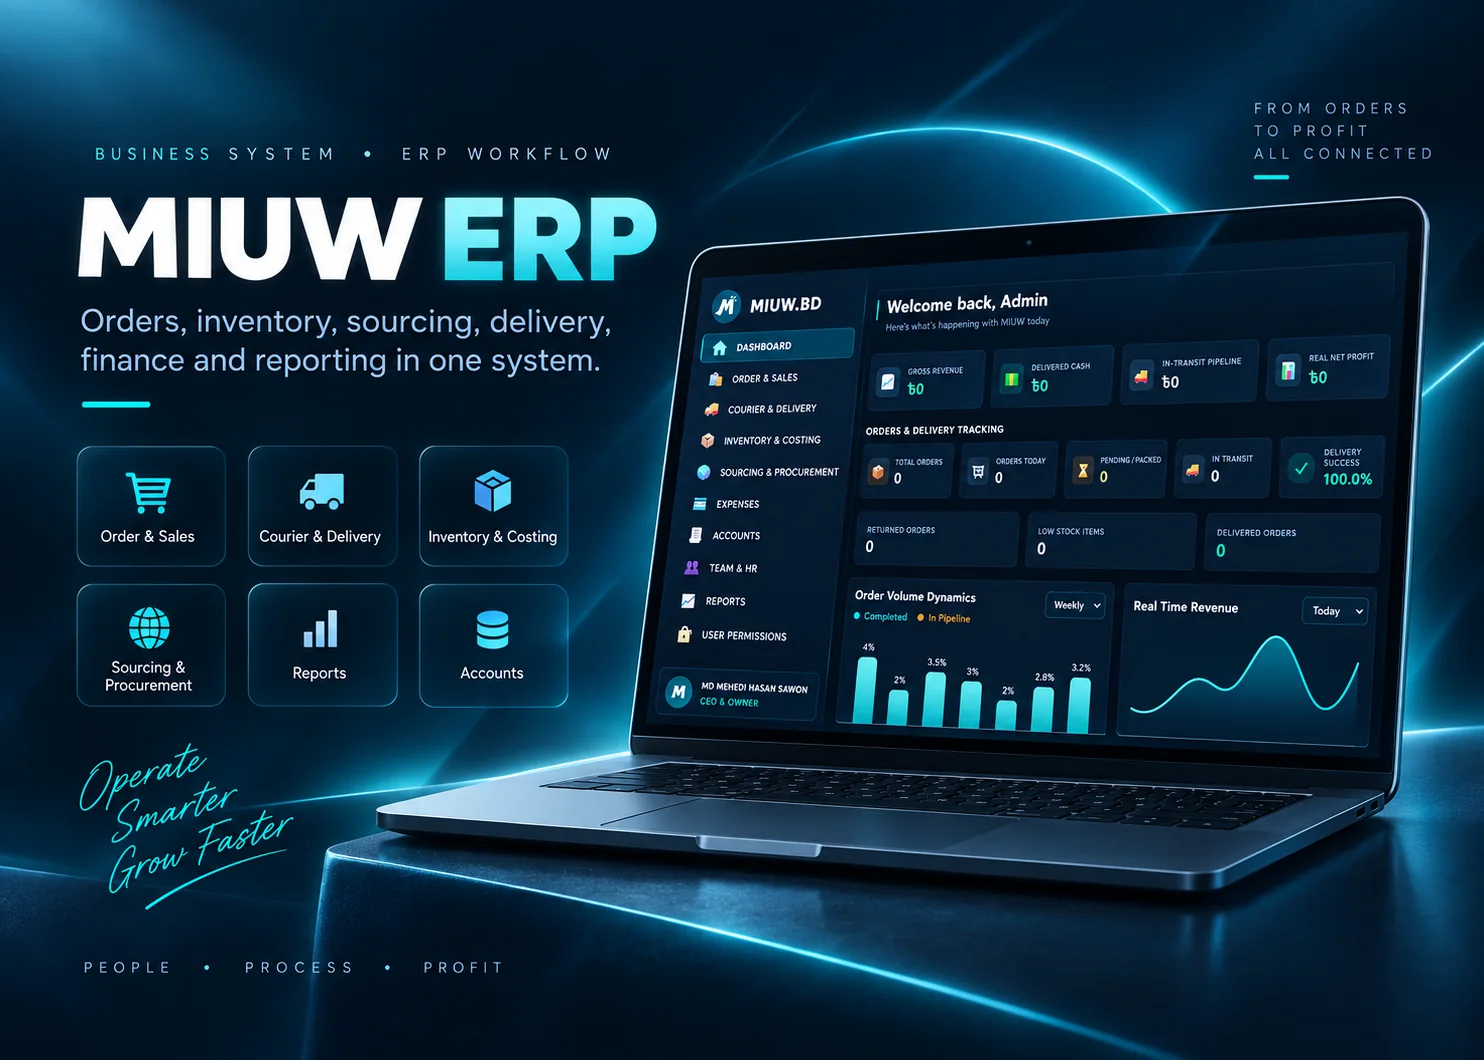
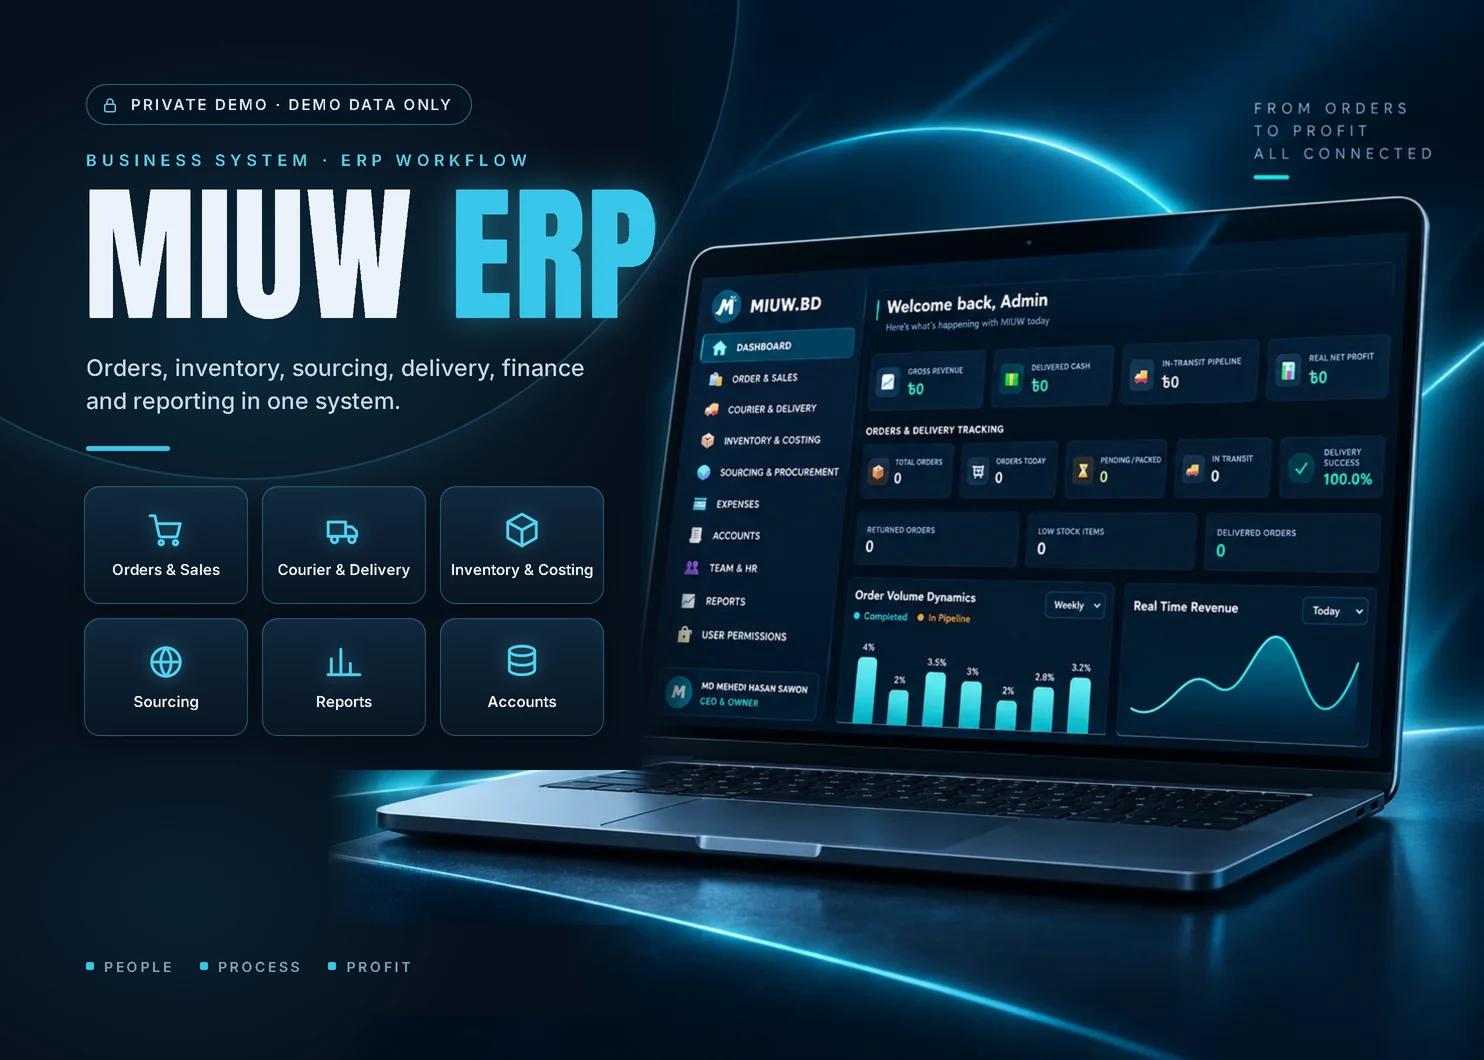
Redesign the MIUW ERP and Portfolio covers
- Portfolio: new cover built from real screenshots of the live site,
  with the desktop hero in a browser window and the mobile view on a
  phone. It has the Mhs. logo, a PORTFOLIO / WEBSITE title, a LIVE
  badge with the URL and the site's dark green. The old cover showed
  the previous site design.
- MIUW ERP: keeps the dashboard laptop render and replaces the soft
  text side with a crisp Anton title, six module tiles with clean
  icons and a "Private demo · demo data only" badge.
- Both 01 features now use the side-by-side layout with tags. The
  portfolio one shows the real hero screen, and the MIUW one shows the
  dashboard laptop on its own.
- 1200×630 JPG share images for both pages. Cover URLs carry ?v=2.

diff --git a/portfolio.html b/portfolio.html
@@ -15,11 +15,13 @@
   <meta property="og:title" content="Portfolio Website Case Study | MD Mehedi Hasan Sawon">
   <meta property="og:description" content="Personal brand, selected work and case studies in one responsive site.">
   <meta property="og:url" content="https://xehedihasansawon.github.io/portfolio.html">
-  <meta property="og:image" content="https://xehedihasansawon.github.io/assets/work/portfolio-cover.webp">
+  <meta property="og:image" content="https://xehedihasansawon.github.io/assets/work/portfolio-og.jpg">
+  <meta property="og:image:width" content="1200">
+  <meta property="og:image:height" content="630">
   <meta name="twitter:card" content="summary_large_image">
   <meta name="twitter:title" content="Portfolio Website Case Study | MD Mehedi Hasan Sawon">
   <meta name="twitter:description" content="Personal brand, selected work and case studies in one responsive site.">
-  <meta name="twitter:image" content="https://xehedihasansawon.github.io/assets/work/portfolio-cover.webp">
+  <meta name="twitter:image" content="https://xehedihasansawon.github.io/assets/work/portfolio-og.jpg">
   <link rel="preconnect" href="https://fonts.googleapis.com">
   <link rel="preconnect" href="https://fonts.gstatic.com" crossorigin>
   <link href="https://fonts.googleapis.com/css2?family=Anton&family=Caveat:wght@600&family=Inter:wght@400;500;600;700;800&display=swap" rel="stylesheet">
@@ -92,7 +94,7 @@
           <p class="case-lead">A responsive personal portfolio that brings my visual design, real-world projects, case studies and digital work together in one consistent experience.</p>
           <div class="case-tags"><span>Personal Brand</span><span>UI Design</span><span>Front-End</span><span>Responsive</span></div>
         </div>
-        <div class="case-hero-visual"><img src="assets/work/portfolio-cover.webp" width="1484" height="1060" alt="Portfolio website hero section on a laptop" fetchpriority="high" decoding="async"></div>
+        <div class="case-hero-visual"><img src="assets/work/portfolio-cover.webp?v=2" width="1484" height="1060" alt="Portfolio website cover with the live site on a browser window and a phone" fetchpriority="high" decoding="async"></div>
       </div>
     </section>
 
@@ -112,13 +114,15 @@
 
     <section class="case-section">
       <div class="shell">
-        <article class="format-feature format-wide">
-          <div class="format-copy wide-copy">
+        <article class="format-feature format-portrait format-landscape">
+          <div class="format-copy">
             <span class="format-number">01</span>
-            <div><p class="case-eyebrow">Selected Screen</p><h2>The hero <span>section.</span></h2></div>
-            <p>Name, role and two clear actions up front: view selected work, or start a project conversation.</p>
+            <p class="case-eyebrow">Selected Screen</p>
+            <h2>The hero <span>section.</span></h2>
+            <p>Name, role and two clear actions up front: view selected work, or start a project conversation. This is the live site as it is today.</p>
+            <div class="format-meta"><span>UI Design</span><span>Responsive</span></div>
           </div>
-          <button type="button" class="case-image-button wide-art" data-lightbox="assets/work/portfolio-cover.webp"><img src="assets/work/portfolio-cover.webp" width="1484" height="1060" alt="Portfolio website hero section" loading="lazy" decoding="async"></button>
+          <button type="button" class="case-image-button wide-art" data-lightbox="assets/work/portfolio-hero-screen.webp" data-caption="The hero section · Live site"><img src="assets/work/portfolio-hero-screen-sm.webp" width="1200" height="750" alt="Live portfolio homepage hero with the Mhs. logo, name and photo" loading="lazy" decoding="async"></button>
         </article>
       </div>
     </section>

diff --git a/miuw-erp.html b/miuw-erp.html
@@ -15,11 +15,13 @@
   <meta property="og:title" content="MIUW ERP Case Study | MD Mehedi Hasan Sawon">
   <meta property="og:description" content="Orders, inventory, sourcing, delivery, finance and reporting in one business system.">
   <meta property="og:url" content="https://xehedihasansawon.github.io/miuw-erp.html">
-  <meta property="og:image" content="https://xehedihasansawon.github.io/assets/work/miuw-erp-cover.webp">
+  <meta property="og:image" content="https://xehedihasansawon.github.io/assets/work/miuw-og.jpg">
+  <meta property="og:image:width" content="1200">
+  <meta property="og:image:height" content="630">
   <meta name="twitter:card" content="summary_large_image">
   <meta name="twitter:title" content="MIUW ERP Case Study | MD Mehedi Hasan Sawon">
   <meta name="twitter:description" content="Orders, inventory, sourcing, delivery, finance and reporting in one business system.">
-  <meta name="twitter:image" content="https://xehedihasansawon.github.io/assets/work/miuw-erp-cover.webp">
+  <meta name="twitter:image" content="https://xehedihasansawon.github.io/assets/work/miuw-og.jpg">
   <link rel="preconnect" href="https://fonts.googleapis.com">
   <link rel="preconnect" href="https://fonts.gstatic.com" crossorigin>
   <link href="https://fonts.googleapis.com/css2?family=Anton&family=Caveat:wght@600&family=Inter:wght@400;500;600;700;800&display=swap" rel="stylesheet">
@@ -92,7 +94,7 @@
           <p class="case-lead">A business system that keeps sourcing, inventory, orders, delivery, expenses and reporting in one connected workflow, shown here with demo-safe data only.</p>
           <div class="case-tags"><span>ERP</span><span>Business System</span><span>Workflow</span><span>Dashboard UI</span></div>
         </div>
-        <div class="case-hero-visual"><img src="assets/work/miuw-erp-cover.webp" width="1484" height="1060" alt="MIUW ERP dashboard on a laptop with its main modules" fetchpriority="high" decoding="async"></div>
+        <div class="case-hero-visual"><img src="assets/work/miuw-erp-cover.webp?v=2" width="1484" height="1060" alt="MIUW ERP cover with the module tiles and the admin dashboard on a laptop" fetchpriority="high" decoding="async"></div>
       </div>
     </section>
 
@@ -112,13 +114,15 @@
 
     <section class="case-section">
       <div class="shell">
-        <article class="format-feature format-wide">
-          <div class="format-copy wide-copy">
+        <article class="format-feature format-portrait format-landscape">
+          <div class="format-copy">
             <span class="format-number">01</span>
-            <div><p class="case-eyebrow">System Preview</p><h2>The admin <span>dashboard.</span></h2></div>
+            <p class="case-eyebrow">System Preview</p>
+            <h2>The admin <span>dashboard.</span></h2>
             <p>Revenue, delivered cash, in-transit pipeline, order status and stock alerts on one screen. All figures shown are demo values.</p>
+            <div class="format-meta"><span>Dashboard UI</span><span>Demo Data</span></div>
           </div>
-          <button type="button" class="case-image-button wide-art" data-lightbox="assets/work/miuw-erp-cover.webp"><img src="assets/work/miuw-erp-cover.webp" width="1484" height="1060" alt="MIUW ERP dashboard with demo data" loading="lazy" decoding="async"></button>
+          <button type="button" class="case-image-button wide-art" data-lightbox="assets/work/miuw-dashboard.webp" data-caption="The admin dashboard · Demo data"><img src="assets/work/miuw-dashboard.webp" width="884" height="740" alt="MIUW ERP admin dashboard on a laptop with demo data" loading="lazy" decoding="async"></button>
         </article>
       </div>
     </section>

diff --git a/index.html b/index.html
@@ -233,7 +233,7 @@
             </div>
           </a>
           <a class="card project" href="miuw-erp.html" data-reveal>
-            <div class="project-media"><img src="assets/work/miuw-erp-cover.webp" width="1484" height="1060" alt="MIUW ERP dashboard on a laptop" loading="lazy" decoding="async"></div>
+            <div class="project-media"><img src="assets/work/miuw-erp-cover.webp?v=2" width="1484" height="1060" alt="MIUW ERP cover with the module tiles and the admin dashboard on a laptop" loading="lazy" decoding="async"></div>
             <div class="project-body">
               <span class="project-meta">Business System · ERP Workflow</span>
               <div class="project-title"><h3>MIUW ERP</h3><span class="round-arrow"><svg class="icon icon-sm" aria-hidden="true"><use href="#i-arrow-up-right"/></svg></span></div>
@@ -242,7 +242,7 @@
             </div>
           </a>
           <a class="card project" href="portfolio.html" data-reveal>
-            <div class="project-media"><img src="assets/work/portfolio-cover.webp" width="1484" height="1060" alt="Portfolio website hero section on a laptop" loading="lazy" decoding="async"></div>
+            <div class="project-media"><img src="assets/work/portfolio-cover.webp?v=2" width="1484" height="1060" alt="Portfolio website cover with the live site on a browser window and a phone" loading="lazy" decoding="async"></div>
             <div class="project-body">
               <span class="project-meta">Personal Brand · UI · Front-End</span>
               <div class="project-title"><h3>Portfolio Website</h3><span class="round-arrow"><svg class="icon icon-sm" aria-hidden="true"><use href="#i-arrow-up-right"/></svg></span></div>
